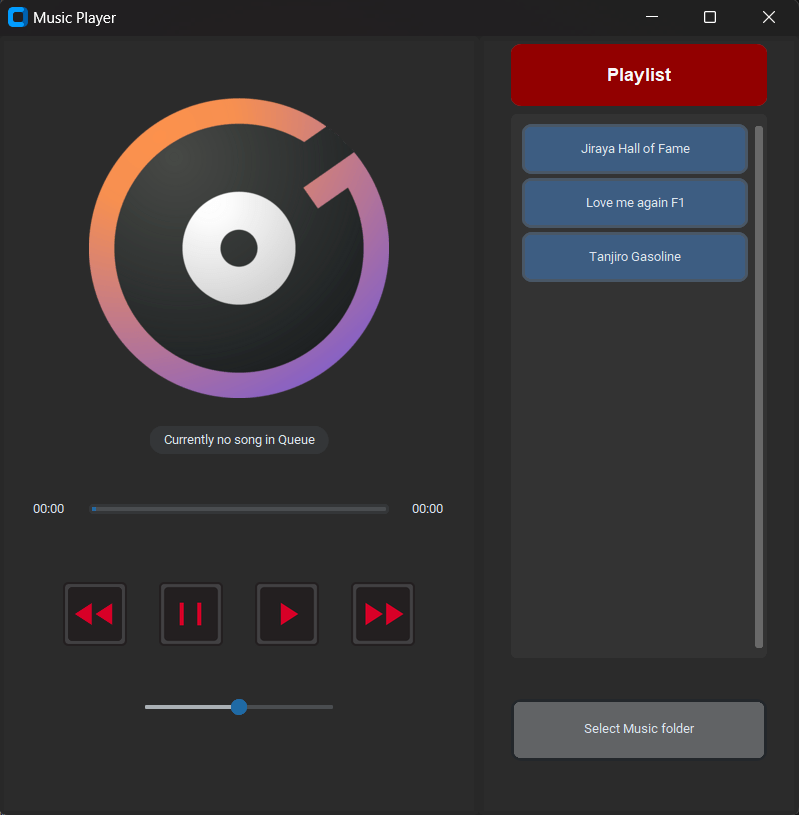
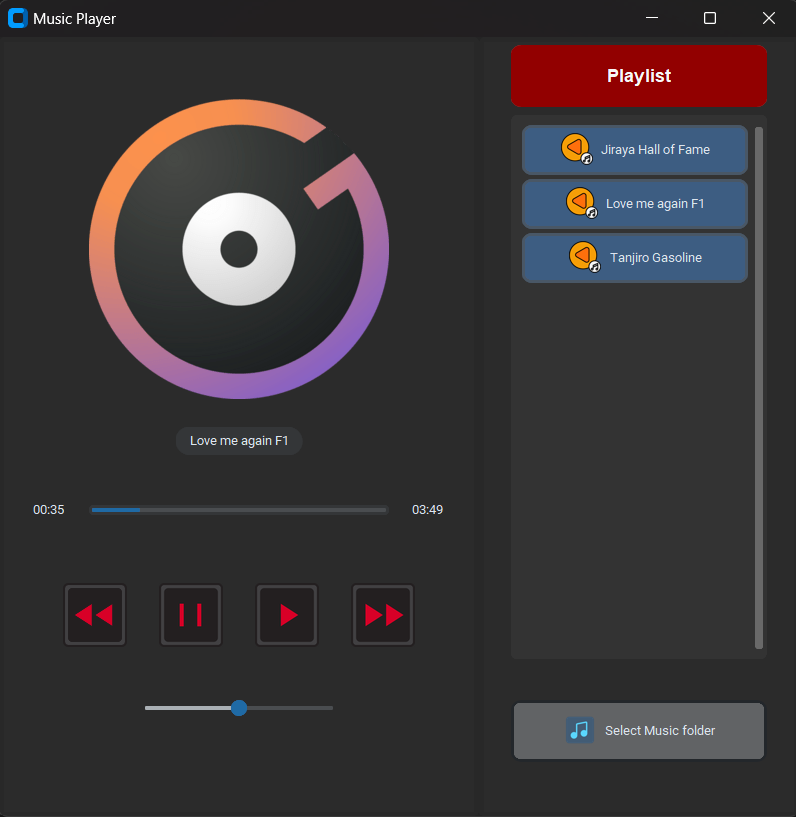
Used CTkImage for the CTk widgets

diff --git a/main.py b/main.py
@@ -106,13 +106,15 @@ class MusicPlayer(ctk.CTk):
         # Need to get a view of all the songs in the selected directory
         # If u want to use a function parse it onto the Class want to have the button to have
         
-        self.scrollable_frame_btn = ScrollableBtnFrame(master = self.playlist_frame,
-                                                       music_directory = self.music_dir, 
-                                                       play_song = self.button_frame_event)
+        self.scrollable_frame_btn = ScrollableBtnFrame(
+                                        master = self.playlist_frame,
+                                        music_directory = self.music_dir,
+                                        play_song = self.button_frame_event)
         
         self.scrollable_frame_btn.place(relx = 0.1, rely= 0.1, relwidth = 0.8, relheight = 0.7)
         
-       
+        # Add a figure to the button
+        self.image_folder = ctk.CTkImage(dark_image = Image.open('graphics/widgets/music_album.png'), size = (32, 32))
         # Need to add a button to select the folder
         self.music_folder_btn = ctk.CTkButton(master = self.playlist_frame, 
                                            text = "Select Music folder", 
@@ -122,6 +124,7 @@ class MusicPlayer(ctk.CTk):
                                            hover_color = '#B9D3F1',
                                            border_width = 3,
                                            hover = True,
+                                           image = self.image_folder,
                                            command = self.select_folder)
         self.music_folder_btn.place(relx = 0.5, rely = 0.85, anchor = 'n', relwidth = 0.8, relheight = 0.08)
         
@@ -132,8 +135,6 @@ class MusicPlayer(ctk.CTk):
         self.scrollable_frame_btn.create_playlist(music_directory = self.music_dir)
     
     def button_frame_event(self, song):
-        # I get the song name >> Use in multiple events of course
-        print(f'Song played: {song}')
         # Want to connect the full path
         self.path_to_song = os.path.join(self.music_dir, song)
 
@@ -258,12 +259,13 @@ class ScrollableBtnFrame(ctk.CTkScrollableFrame):
         
         # Only want to have one column to use
         self.grid_columnconfigure(index = 0, weight = 1)
-        
+        # The folder to the music directory
         self.music_directory = music_directory
         # Undefined number of buttons to press
         self.button_list = []
-        
+        # Creating the playlist
         self.create_playlist(self.music_directory)
+        # Parse the function which is used in the main class to play the song
         self.playsong = play_song
     
     # Create the button for each song in the playlist
@@ -281,6 +283,8 @@ class ScrollableBtnFrame(ctk.CTkScrollableFrame):
         self.button_list = []
         # List with all the song names
         self.song_list = []
+        # Add the play button image
+        self.play_btn_img = ctk.CTkImage(dark_image = Image.open('graphics/widgets/play_button.png'), size = (32, 32))
         
         for i, song in enumerate(self.songs_to_play):
             splitted_ext = os.path.splitext(song)
@@ -295,6 +299,7 @@ class ScrollableBtnFrame(ctk.CTkScrollableFrame):
                                             border_color = '#495766',
                                             border_width = 3,
                                             hover_color = '#ABC4E2',
+                                            image = self.play_btn_img,
                                             command = lambda song = song:  self.playsong(song))
                 song_button.grid(row = i, column = 0, padx = 3, pady = 2)
                 self.button_list.append(song_button)   
